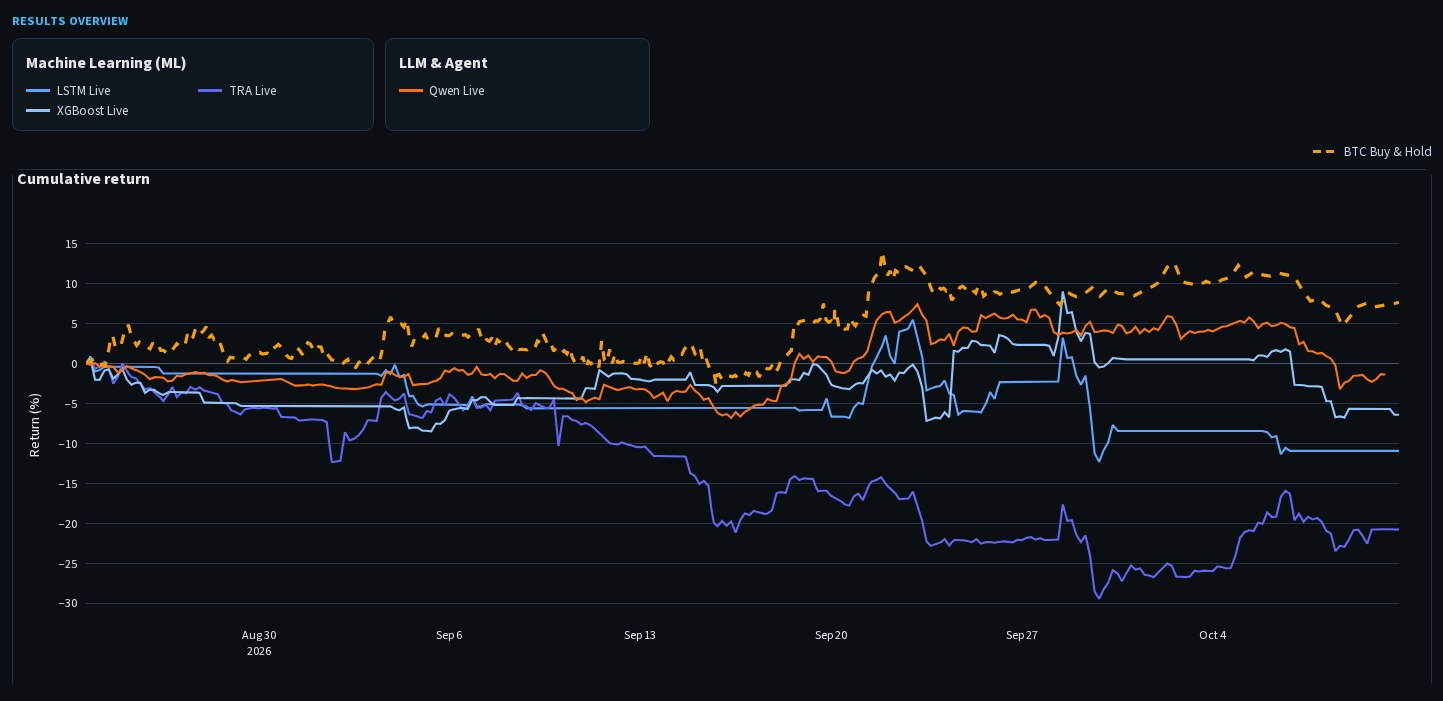
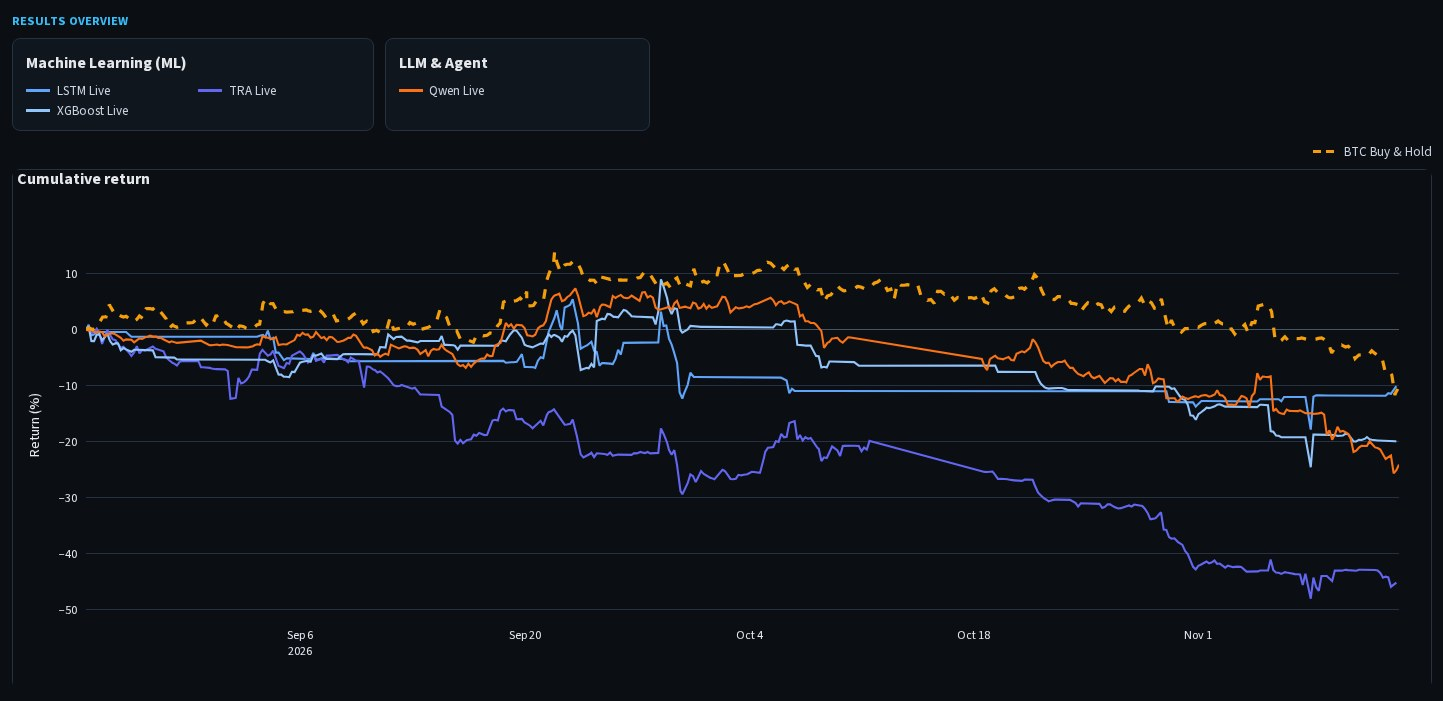
docs: align showcase screenshots and Jensen evaluation description

diff --git a/README.md b/README.md
@@ -29,11 +29,11 @@
 
 [Open the public results dashboard](https://awesome-tradingai.streamlit.app/) to explore normalized return curves, comparisons with BTC Buy & Hold, drawdowns, trading signals, execution summaries, method details, and data-quality status across 15 public runs covering 15 distinct methods.
 
-The public results currently use the OKX Demo Trading environment, corresponding to the library's `exchange-paper` mode. This mode is distinct from both local `local-paper` execution and real-money `live` trading. The public display window begins at `2026-06-01 00:00 UTC`. Each method is normalized at its first real observation on or after that boundary. The multi-agent run begins at its first real observation on June 4, so the earlier interval remains empty with no synthetic backfilling.
+The public results currently use the OKX Demo Trading environment, corresponding to the library's `exchange-paper` mode. This mode is distinct from both local `local-paper` execution and real-money `live` trading. Paper-trading cumulative return curves and BTC Buy & Hold share a display baseline of `2026-06-04 16:00 UTC`, with returns reset to 0 at that baseline. Jensen alpha uses a separate fixed daily-valuation anchor.
 
 ![Awesome TradingAI public showcase overview](docs/assets/public-showcase-overview.jpg)
 
-The overview shows the full public method set, the five methods with the highest final Alpha, an Alpha-sorted Leaderboard, and the union of public crypto assets. For each method, both the method return and BTC reference return are reset to 0 at that method's first real observation before Alpha is calculated. The Top 5 chart displays Alpha only. Open Strategy Detail in the site to inspect the exact asset symbols, timeframe, execution mode, methodology, and data window for each method.
+The overview shows cumulative return curves alongside BTC Buy & Hold, annualized Jensen alpha curves for all public methods, a Leaderboard grouped by comparison cohort and sorted by annualized Jensen alpha, and the union of public crypto assets. Jensen alpha uses paired daily method and BTC returns with a zero risk-free rate and equals 365 times the daily regression intercept. Each cohort uses its full valid daily history from its fixed anchor; missing required daily valuations leave Jensen unavailable. Open Strategy Detail in the site to inspect the exact asset symbols, timeframe, execution mode, methodology, and data window for each method.
 
 The current public evaluation covers 10 cryptocurrencies in total: ADA, BTC, DOGE, ETH, HBAR, LINK, LTC, OKB, TRX, and XRP. Asset scope differs by method:
 

diff --git a/README.zh-CN.md b/README.zh-CN.md
@@ -31,11 +31,11 @@
 
 目前的公开结果使用 OKX 模拟盘交易环境，对应本项目的 `exchange-paper` 模式。
 
-公开展示窗口从 `2026-06-01 00:00 UTC` 开始。每种方法均以该时间点当日或之后的首个真实观测值为基准进行归一化。多智能体运行的首个真实观测值出现在 6 月 4 日，因此此前的时间段保持为空，不进行任何合成数据回填。
+模拟盘累计收益曲线与 BTC 买入并持有曲线统一以 `2026-06-04 16:00 UTC` 为展示基点，并在该时点归零。Jensen alpha 使用独立的固定日估值起点。
 
 ![Awesome TradingAI 公开展示总览](docs/assets/public-showcase-overview.jpg)
 
-总览页面展示全部公开方法、最终 Alpha 最高的 5 种方法、按 Alpha 排序的排行榜，以及所有公开方法涉及的加密资产集合。计算每种方法的 Alpha 时，方法收益和 BTC 参考收益都在该方法的首个真实观测点归零。前五方法图只显示 Alpha 曲线。在网站中打开 Strategy Detail（策略详情），可以查看各方法的确切资产代码、时间周期、执行模式、方法说明和数据窗口。
+总览页面展示累计收益与 BTC 买入并持有对比曲线、全部公开方法的年化 Jensen alpha 曲线、按比较组展示并按年化 Jensen alpha 排序的排行榜，以及公开方法涉及的加密资产集合。Jensen alpha 使用方法与 BTC 的配对日收益，在无风险利率为零的假设下计算，年化值为日收益回归截距乘以 365。各比较组使用固定起点以来的完整有效日收益；缺少必要日估值时，Jensen 不可用。在网站中打开 Strategy Detail，可以查看各方法的确切资产代码、时间周期、执行模式、方法说明和数据窗口。
 
 当前公开评测共覆盖 10 种加密货币：ADA、BTC、DOGE、ETH、HBAR、LINK、LTC、OKB、TRX 和 XRP。不同方法的资产范围有所不同：
 
